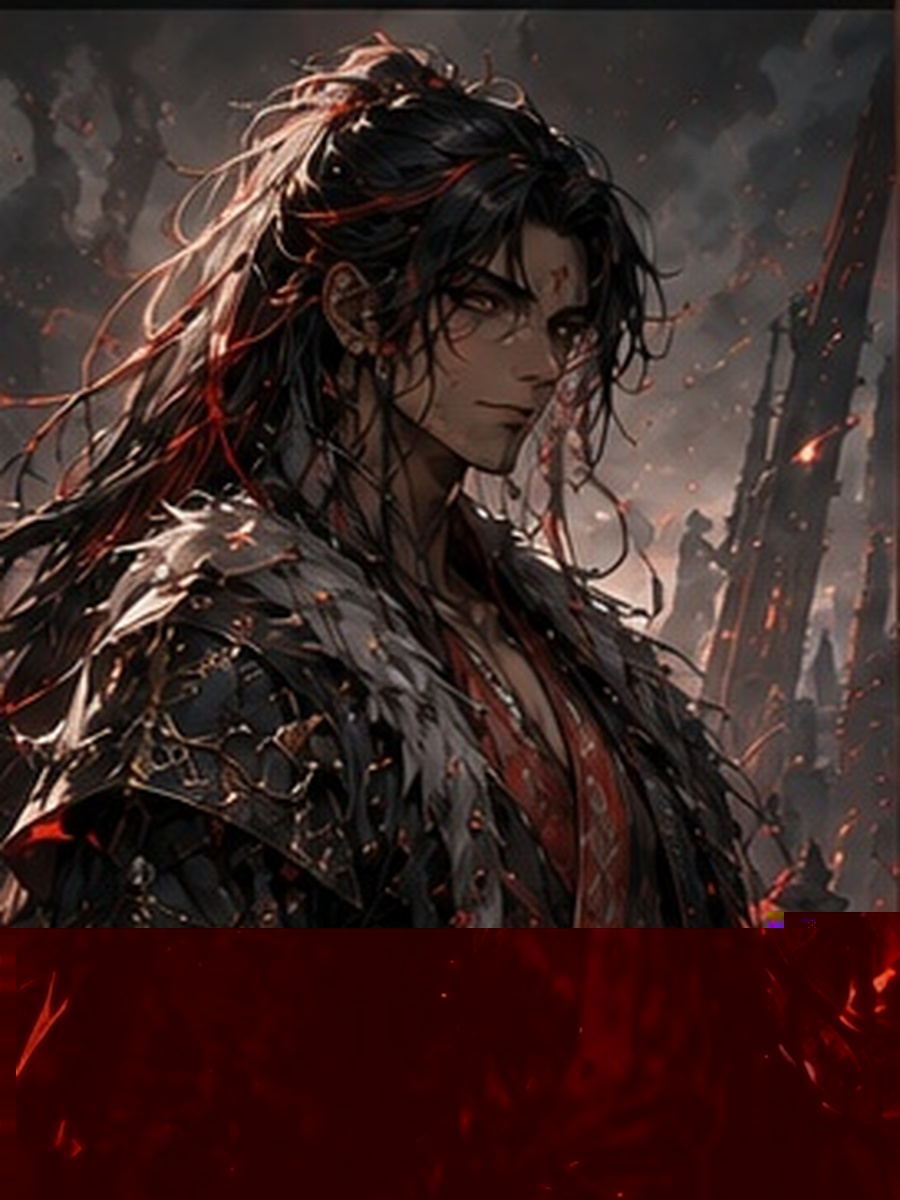
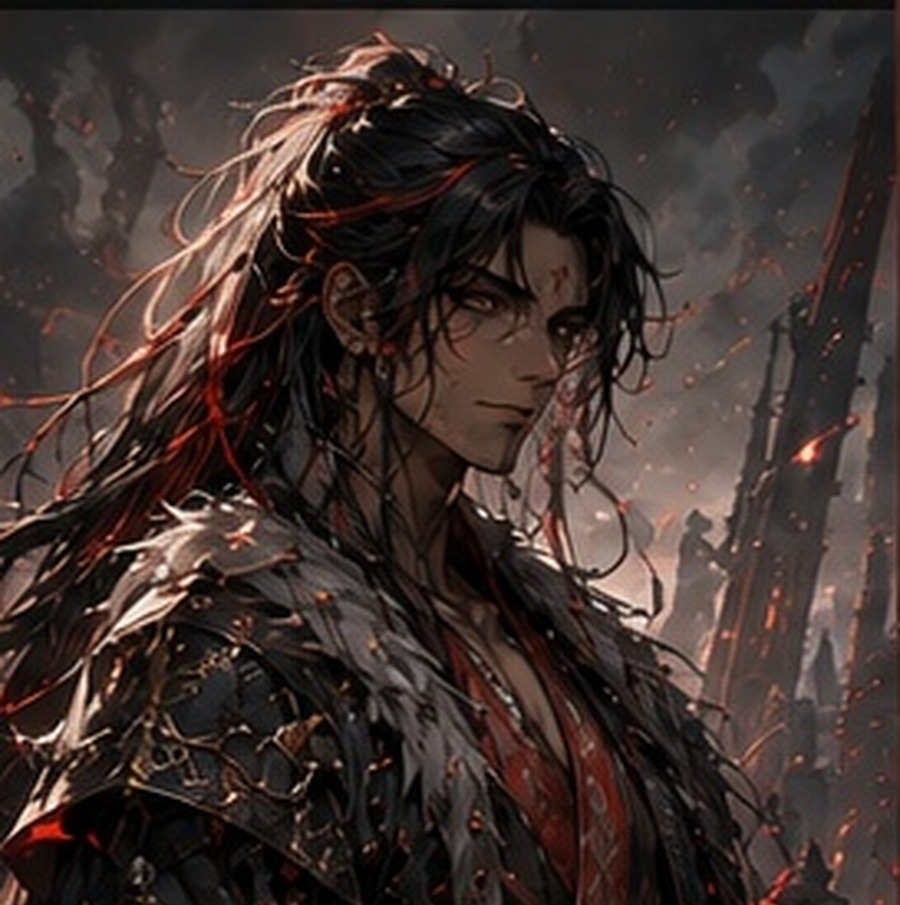
Fix Sera gallery overlay and crop corrupted Han portrait
- Sera gallery: thumbnail images inherited position:absolute;inset:0 from
  the generic .profile-visual img rule because .sera-v101-thumb img (and the
  .sera-single-thumb img variant) never reset position. Each thumbnail image
  escaped its 48px button and stacked full-size across the portrait, dimmed
  by the button's opacity — the 'overlays / translucent images' that hid the
  main image when switching. Reset the thumbnail images to position:static.
- Han Myeong portrait: the source image had a corrupted red band across the
  bottom ~24% (baked into the original asset, not introduced here). Cropped
  han.jpg to the clean top 900x905 region.

Verified in-browser: thumbnails render at 46px, switching updates the single
main portrait with no overlay, and Han's portrait loads clean. typecheck,
lint, test (15) and both builds pass.

diff --git a/src/styles.css b/src/styles.css
@@ -643,6 +643,8 @@ input.search:focus{outline:none;border-color:#745a80!important;box-shadow:0 0 0 
 }
 .sera-single-thumb img{
   display:block !important;
+  position:static !important;
+  inset:auto !important;
   width:100% !important;
   height:100% !important;
   object-fit:cover !important;
@@ -727,6 +729,8 @@ input.search:focus{outline:none;border-color:#745a80!important;box-shadow:0 0 0 
 }
 .sera-v101-thumb img{
   display:block !important;
+  position:static !important;
+  inset:auto !important;
   width:100% !important;
   height:100% !important;
   object-fit:cover !important;
